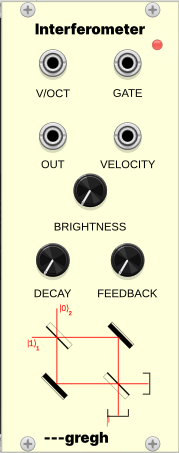
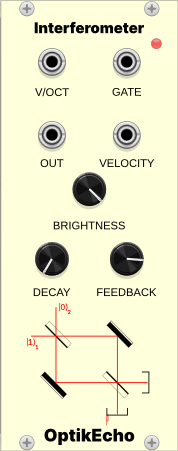
update README.md
Noted what Loop Model is for.
Added Bridge Enabled.
Commented about muddiness of output.
Changed section titled Credits to References and removed
commenatery about soundboard.wav (source found).
Updated intererometer-panel.png to reflect what it currently is.

diff --git a/README.md b/README.md
@@ -20,7 +20,7 @@ The main I/O to this module are the these:
 
 - **GATE** is a polyphonic input for the note.  The rising edge of GATE triggers the start of a note.  It is sustained until GATE is removed.  The threshold for gate is set (without hysteresis) at 0.7 volts. 
 
-- **VELOCITY** is a polyphonic input for the velocity of the note.  The model currently just updates the gain of the note based upon the input.  This follows the guidance for velocity from 0 volts (*ppp*, quiet) to 10 volts (*fff*, loud).  Sending 0 does *not* shut the note off.  Note on and note off is controlled by the GATE.  Velocity is sampled when the V/OCT causes an update to internal state for a channel.
+- **VELOCITY** is a polyphonic input for the velocity of the note.  The model currently just updates the gain of the note based upon the input.  This follows the guidance for velocity from 0 volts (*ppp*, quiet) to 10 volts (*fff*, loud).  Sending 0 does *not* shut the note off.  Note on and note off is controlled by the GATE.  Velocity is sampled when the V/OCT causes an update to internal state for a channel.  If nothing is connected to VELOCITY, 50% (5 V) is assumed.
 
 - **OUT** is a *monophonic* output of the piano simulator.
 
@@ -38,13 +38,18 @@ Lessor I/O that may not survive include:
 
 There are two items. 
 
-- **Loop Model** which model to use.
+- **Loop Model** which model to use.  The old model is just waiting for me to remove it.  
+  It doesn't have a lot of the stuff the new model has.
 
 - **Dispersion Enabled** set whether is string dispersion enabled.
 
 - **Hammer Enabled** determines if hammer processing is enabled.  if it is, a hammer pulse is convolved with the exciter waveform.  The hammer pulse is based upon velocity and frequency.
 
+- **Bridge Enabled** determines if the strike position filter is enabled.  The name of this menu item is a misnomer.
+
 ### Caveats and Known Issues
+
+- The sound only okay.  The energy decay relief maps look a lot different than a real piano.  Psycho-acoustically it sound muddy.
 
 - I've only tested this under Linux x86_64.
 
@@ -54,8 +59,6 @@ There are two items.
 
 - Changing Loop Model or Dispersion Enabled can put individual engines in a confused state with regard to pitch.  It has to do with how the engine caches previous pitch and filter parameters.
 
-## Credits
+## References
 
 Many of the ideas and some of the basic structure of this module come from the work of Karl Hiner.  He has a [piano simulation notebook](https://github.com/khiner/notebooks/blob/master/physical_audio_signal_processing/chapter_9_virtual_musical_instruments_part_2.ipynb) that was crucial in helping get this to where it is.  This notebook is Karl's effort to help decompose the mathematics found in Julius O. Smith's [Physical Audio Signal Processing For Virtual Musical Instruments and Audio Effects, Online version](https://ccrma.stanford.edu/~jos/pasp/).  The dispersion filter used with this piano is based upon [Dispersion modeling in waveguide piano synthesis using tunable allpass filter](http://lib.tkk.fi/Diss/2007/isbn9789512290666/article2.pdf).  This is a neat read.
-
-Credit for the soundboard excitation waveform, `soundboard.wav` in the `/res` directory is uncertain.  This waveform is used to excite the piano string.  I got the file from Karl Hiner's notebook, referenced above.  In communications with him, he's unsure where he got it from.  I've spent a number of hours trying to find it online without success.  If you're reading this and you might know, pass the info along to me.  I'd like to credit the person who did the work.  For now, I'm going to live on shaky ground and use it as is.
